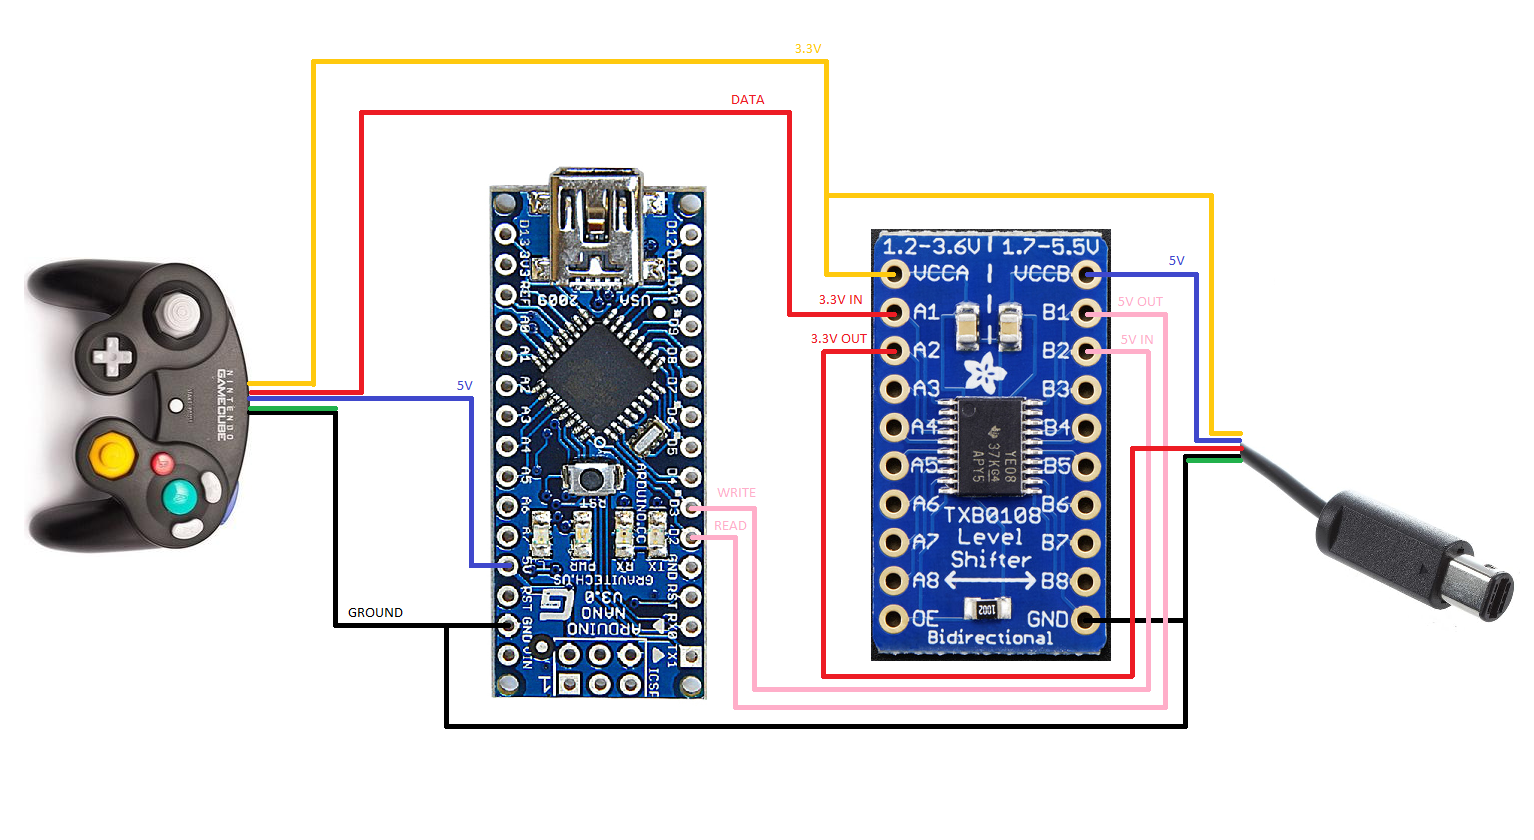
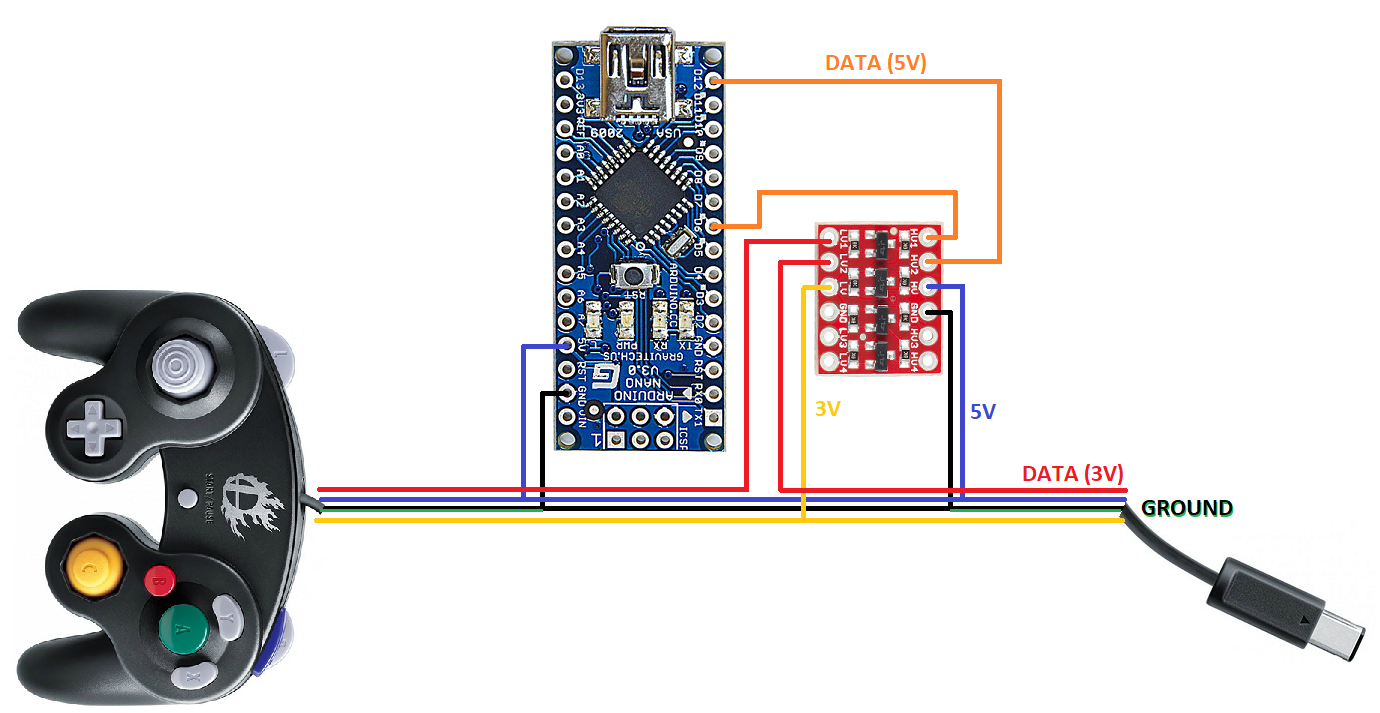
Made a better controller diagram, and updated README

diff --git a/README.md b/README.md
@@ -13,13 +13,11 @@ Super Smash Brothers Melee for the Nintendo GameCube.
 **LICENSE**: GNU General Public License v3.0
 
 ## FEATURES
-- Perfect dashback that prevents slower tilt turn state
+- Four profile toggle using D-pad (Left, Right, Up, Down)
 - Dedicated shorthop (X) and fullhop (Y) buttons
 - Always jumpcancel grab with Z button
 - Always jumpcancel upsmash with C-Stick Up
 - Dedicated light shield (L) button
-- Three profile toggle using D-pad (Left, Right, Down)
-- L+R+A+Start macro (dpad up)
 
 ### DEMO VIDEO
 
